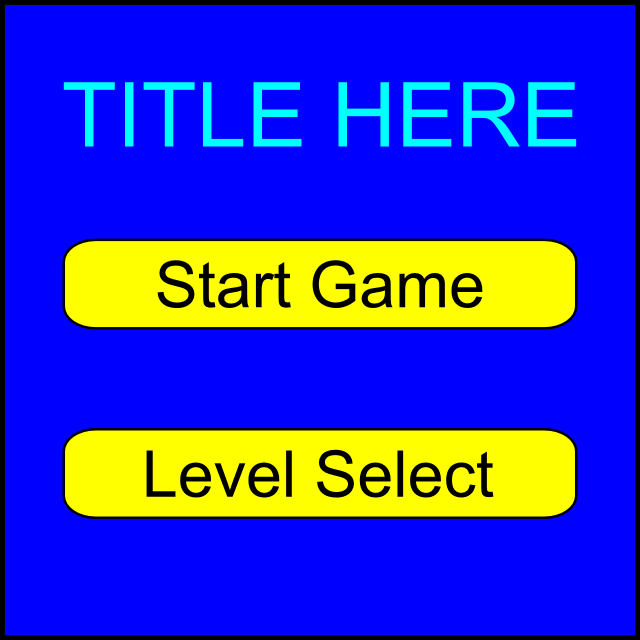
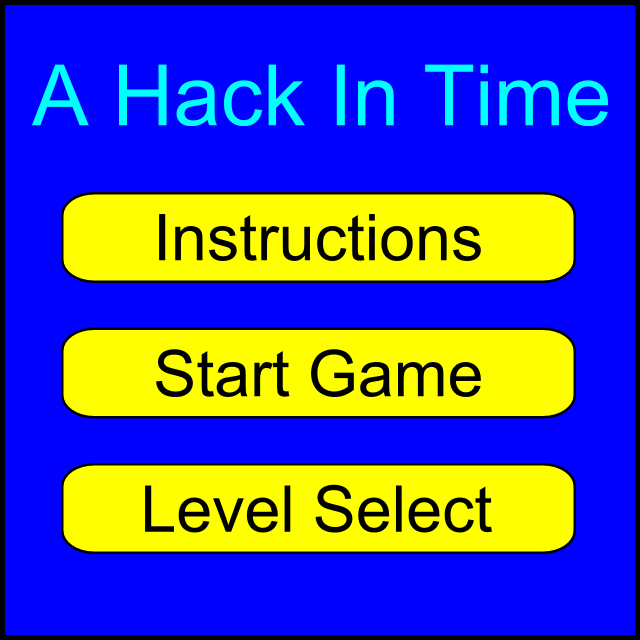
Instrutions

diff --git a/gameloader.js b/gameloader.js
@@ -129,7 +129,7 @@ function GameLoader(callback)
 
 
 
-    var imgNames = ["Wall","Floor","Start","End","Menu","Player","Bullet","EnemyBullet","LevelSelect","GameOver","GameWon","PlayerDead","Paradox",
+    var imgNames = ["Instructions","Wall","Floor","Start","End","Menu","Player","Bullet","EnemyBullet","LevelSelect","GameOver","GameWon","PlayerDead","Paradox",
     "Turret1","DamagedTurret1","NearDeathTurret1",
     "Turret2","DamagedTurret2","NearDeathTurret2",
     "TimeMachine","SlightlyDamagedTimeMachine","ModeratelyDamagedTimeMachine","HeavilyDamagedTimeMachine","NearDeathTimeMachine","DeadTimeMachine"];

diff --git a/menu.js b/menu.js
@@ -44,6 +44,11 @@ function Menu(callback)
                         LevelSelect(callback);
                         break;
 
+                    case "instructions":
+                        canvas.removeMouseDownListener(id);
+                        Instructions(callback);
+                        break;
+
                     default:
                         console.error("A non existant button ",buttonPressed);
                         break;

diff --git a/index.html b/index.html
@@ -23,9 +23,11 @@
 
     <script type='text/javascript' src='paradox.js'></script>
     <script type='text/javascript' src='playerdead.js'></script>
+    <script type='text/javascript' src='instructions.js'></script>
 
     <script type='text/javascript' src='gamewon.js'></script>
     <!-- this goes last -->
     <script type='text/javascript' src='main.js'></script>
+
 </body>
 </html>

diff --git a/instructions.js b/instructions.js
@@ -1,0 +1,11 @@
+function Instructions(callback)
+{
+    var menuImage = assets.getImage("Instructions");
+    canvas.drawImage(menuImage,0,0,WIDTH,HEIGHT);
+
+    var id = canvas.addMouseDownListener(function(pos)
+    {
+        canvas.removeMouseDownListener(id);
+        callback();
+    });
+}
